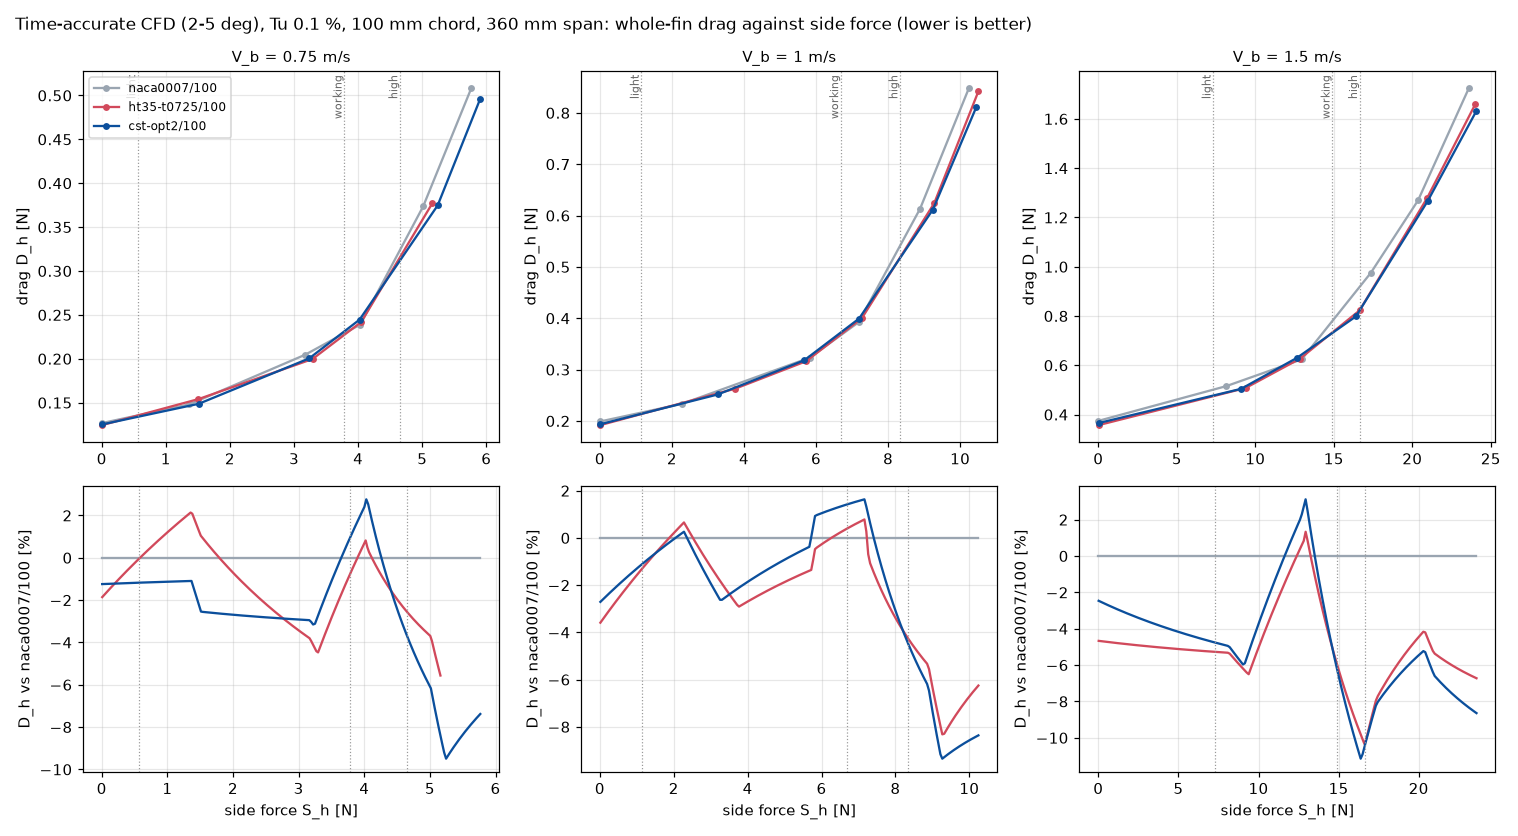
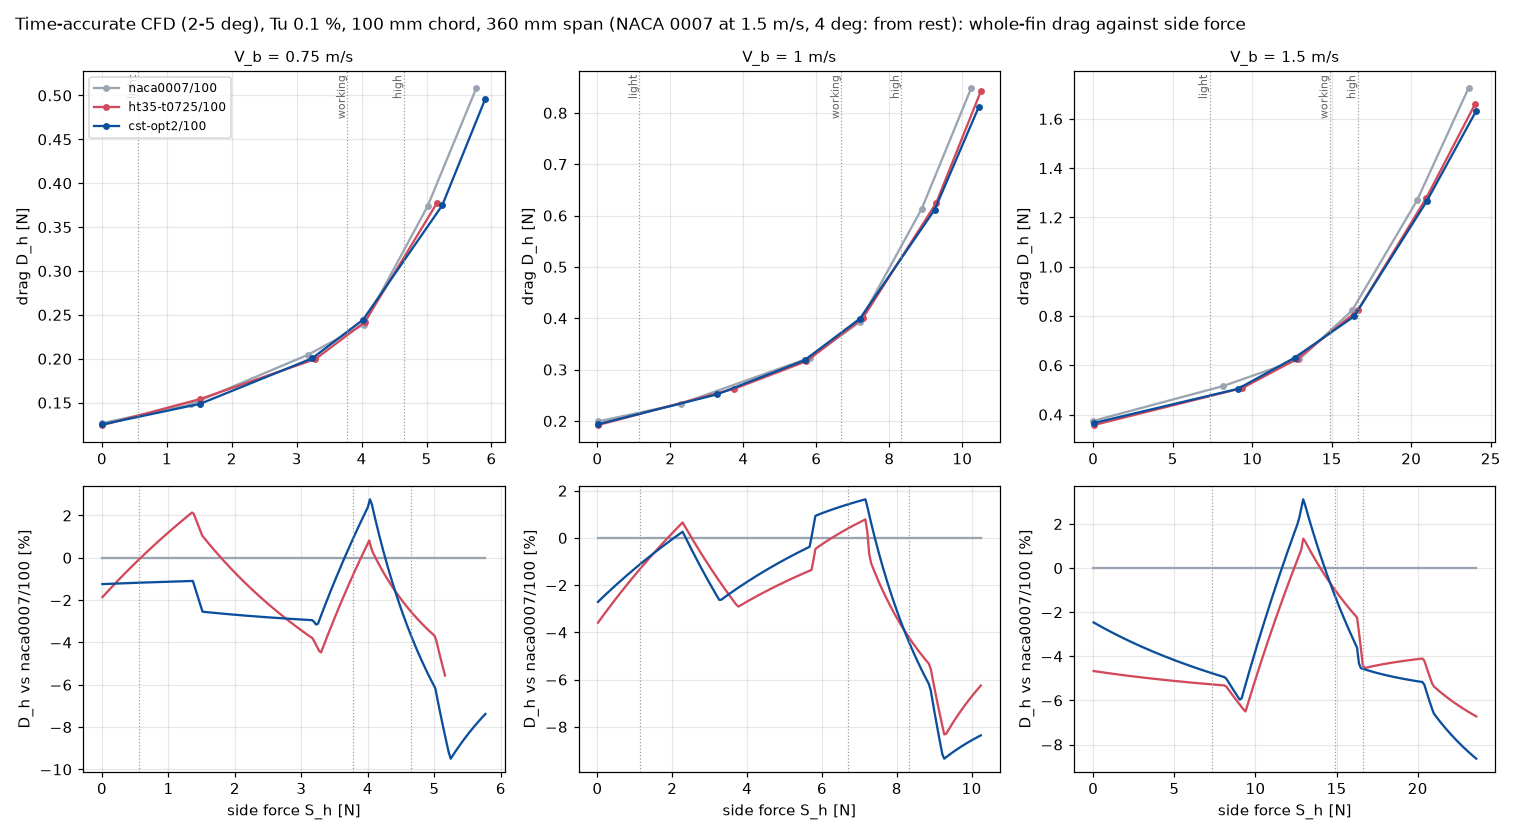
custom-section findings: polar figure with NACA 0007 from rest at 1.5 m/s

diff --git a/projects/foil2d/findings/custom-section.md b/projects/foil2d/findings/custom-section.md
@@ -202,8 +202,11 @@ screen and optima runs with the time-accurate points replacing theirs
    ![Time-accurate drag against side force, and drag relative to NACA 0007](figures/custom-section-transient-polars.png)
 
    Drawn by `python -m iomcfd.sectiondesign cfd <screen and optima
-   results.csv> --replace <the six time-accurate results.csv> --only
-   file:ht35-t0725.dat/100 file:cst-opt2.dat/100 --figure ...`.
+   results.csv> --replace <the six time-accurate results.csv>
+   <transient-check run 20261017-193613's results.csv> --only
+   file:ht35-t0725.dat/100 file:cst-opt2.dat/100 --figure ...`. Since
+   2026-10-23 the figure shows NACA 0007 at 4° and 1.5 m/s from rest
+   (Analysis 2026-10-23); the table above has the steady-start point.
 2. **The time-accurate points move the gain from 0.75-1 m/s to 1.5 m/s.**
    HT35 at 7.25 %, slope ×1:
 
